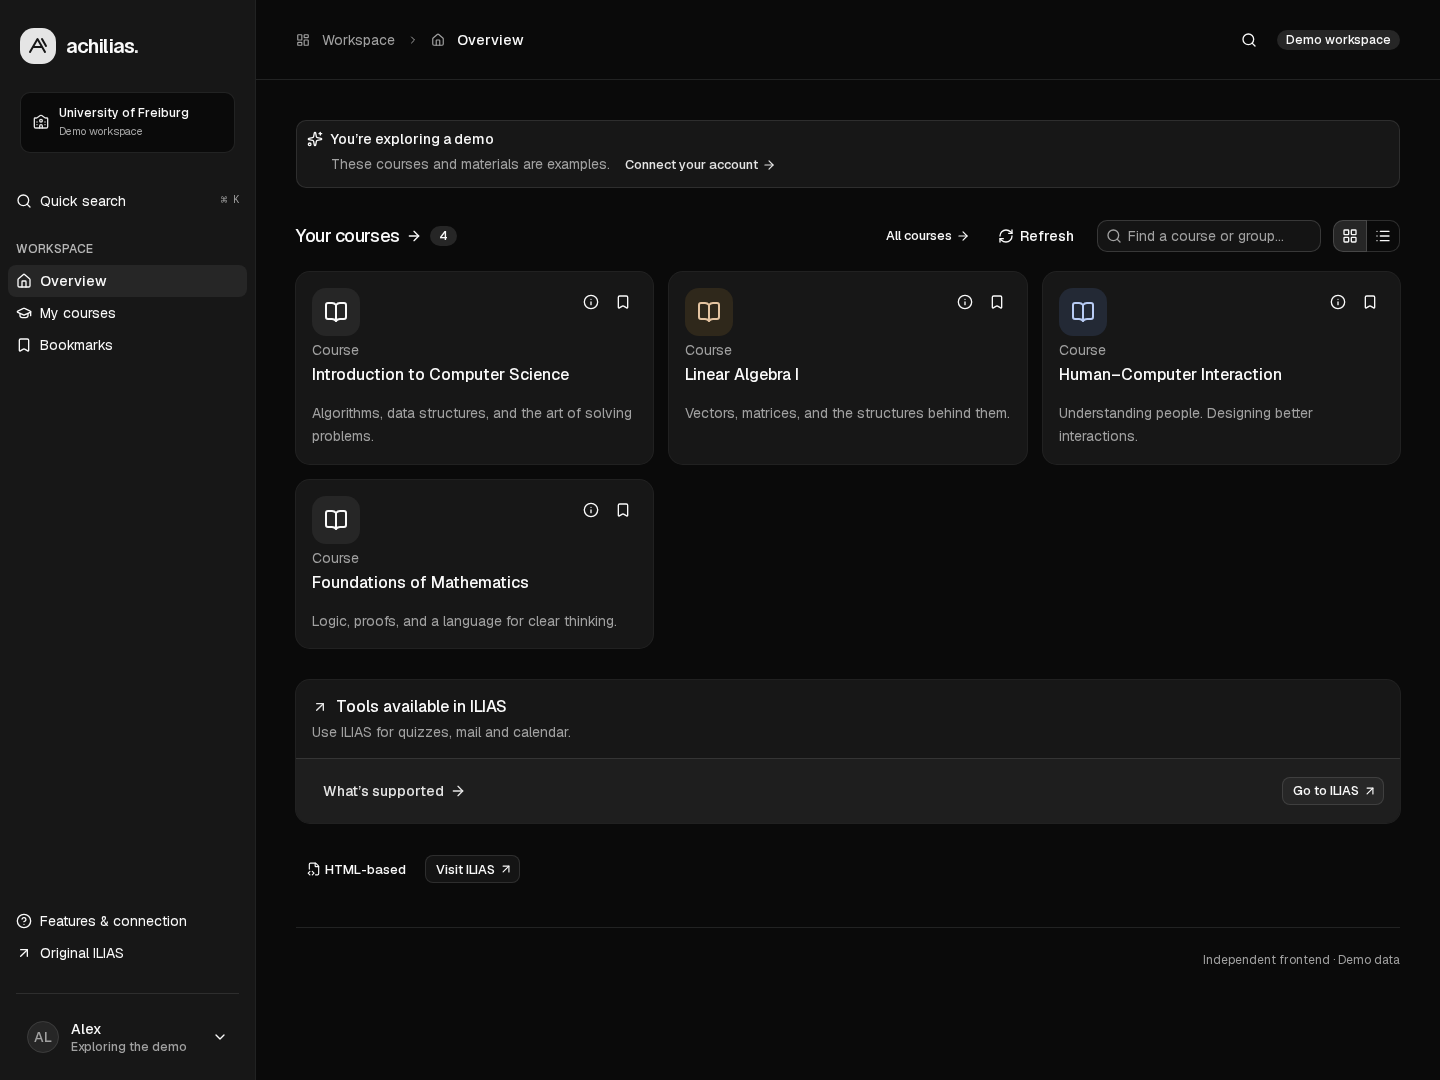
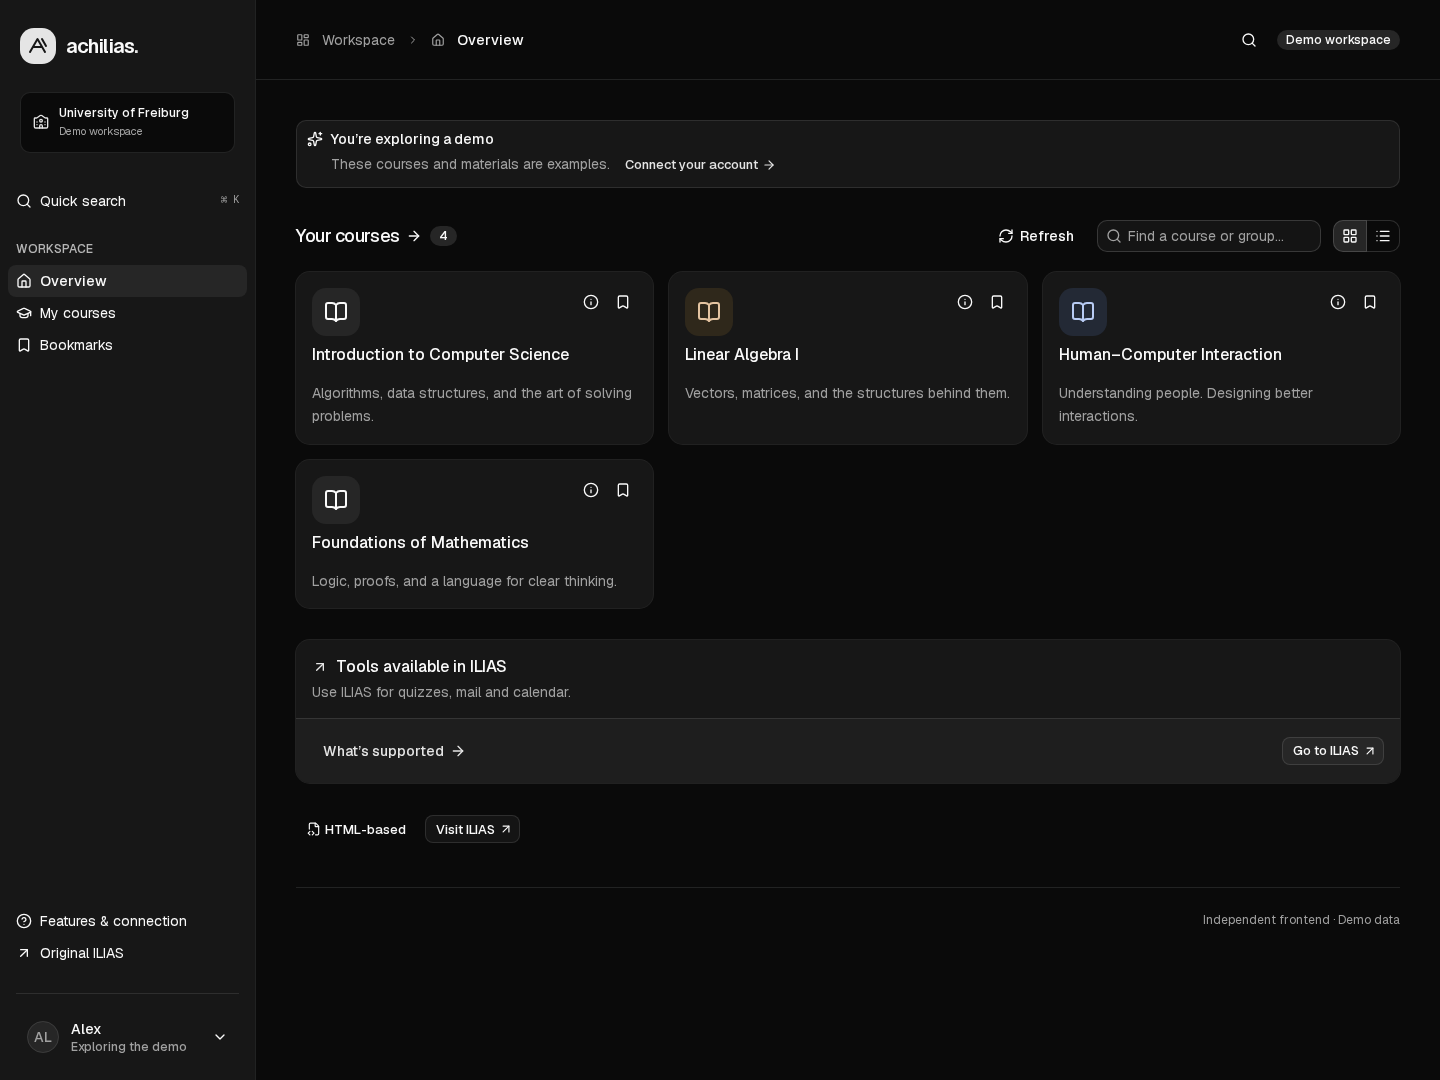
Remove redundant course labels and overview navigation

diff --git a/src/components/workspace/library-section.tsx b/src/components/workspace/library-section.tsx
@@ -3,7 +3,6 @@ import type { ReactNode } from "react";
 import Link from "next/link";
 import { ArrowRight, Search } from "lucide-react";
 import { Badge } from "@/components/ui/badge";
-import { Button } from "@/components/ui/button";
 import {
   InputGroup,
   InputGroupAddon,
@@ -70,14 +69,6 @@ export function LibrarySection({
           </Badge>
         </div>
         <div className="flex flex-wrap items-center gap-3">
-          {view === "home" && (
-            <Button variant="ghost" size="sm" asChild>
-              <Link prefetch={demo} href={demoHref("/courses", demo)}>
-                All courses
-                <ArrowRight data-icon="inline-end" />
-              </Link>
-            </Button>
-          )}
           {view === "home" && <RefreshButton />}
           <div className="w-44 sm:w-56">
             <InputGroup>

diff --git a/src/components/workspace/item-list.tsx b/src/components/workspace/item-list.tsx
@@ -126,9 +126,11 @@ export function ItemList({
                   </TooltipContent>
                 </Tooltip>
               </CardAction>
-              <CardDescription>
-                {typeNames[item.type] || "ILIAS object"}
-              </CardDescription>
+              {item.type !== "crs" && (
+                <CardDescription>
+                  {typeNames[item.type] || "ILIAS object"}
+                </CardDescription>
+              )}
               <CardTitle className="col-span-2 min-w-0">
                 <ItemAction
                   textLink
